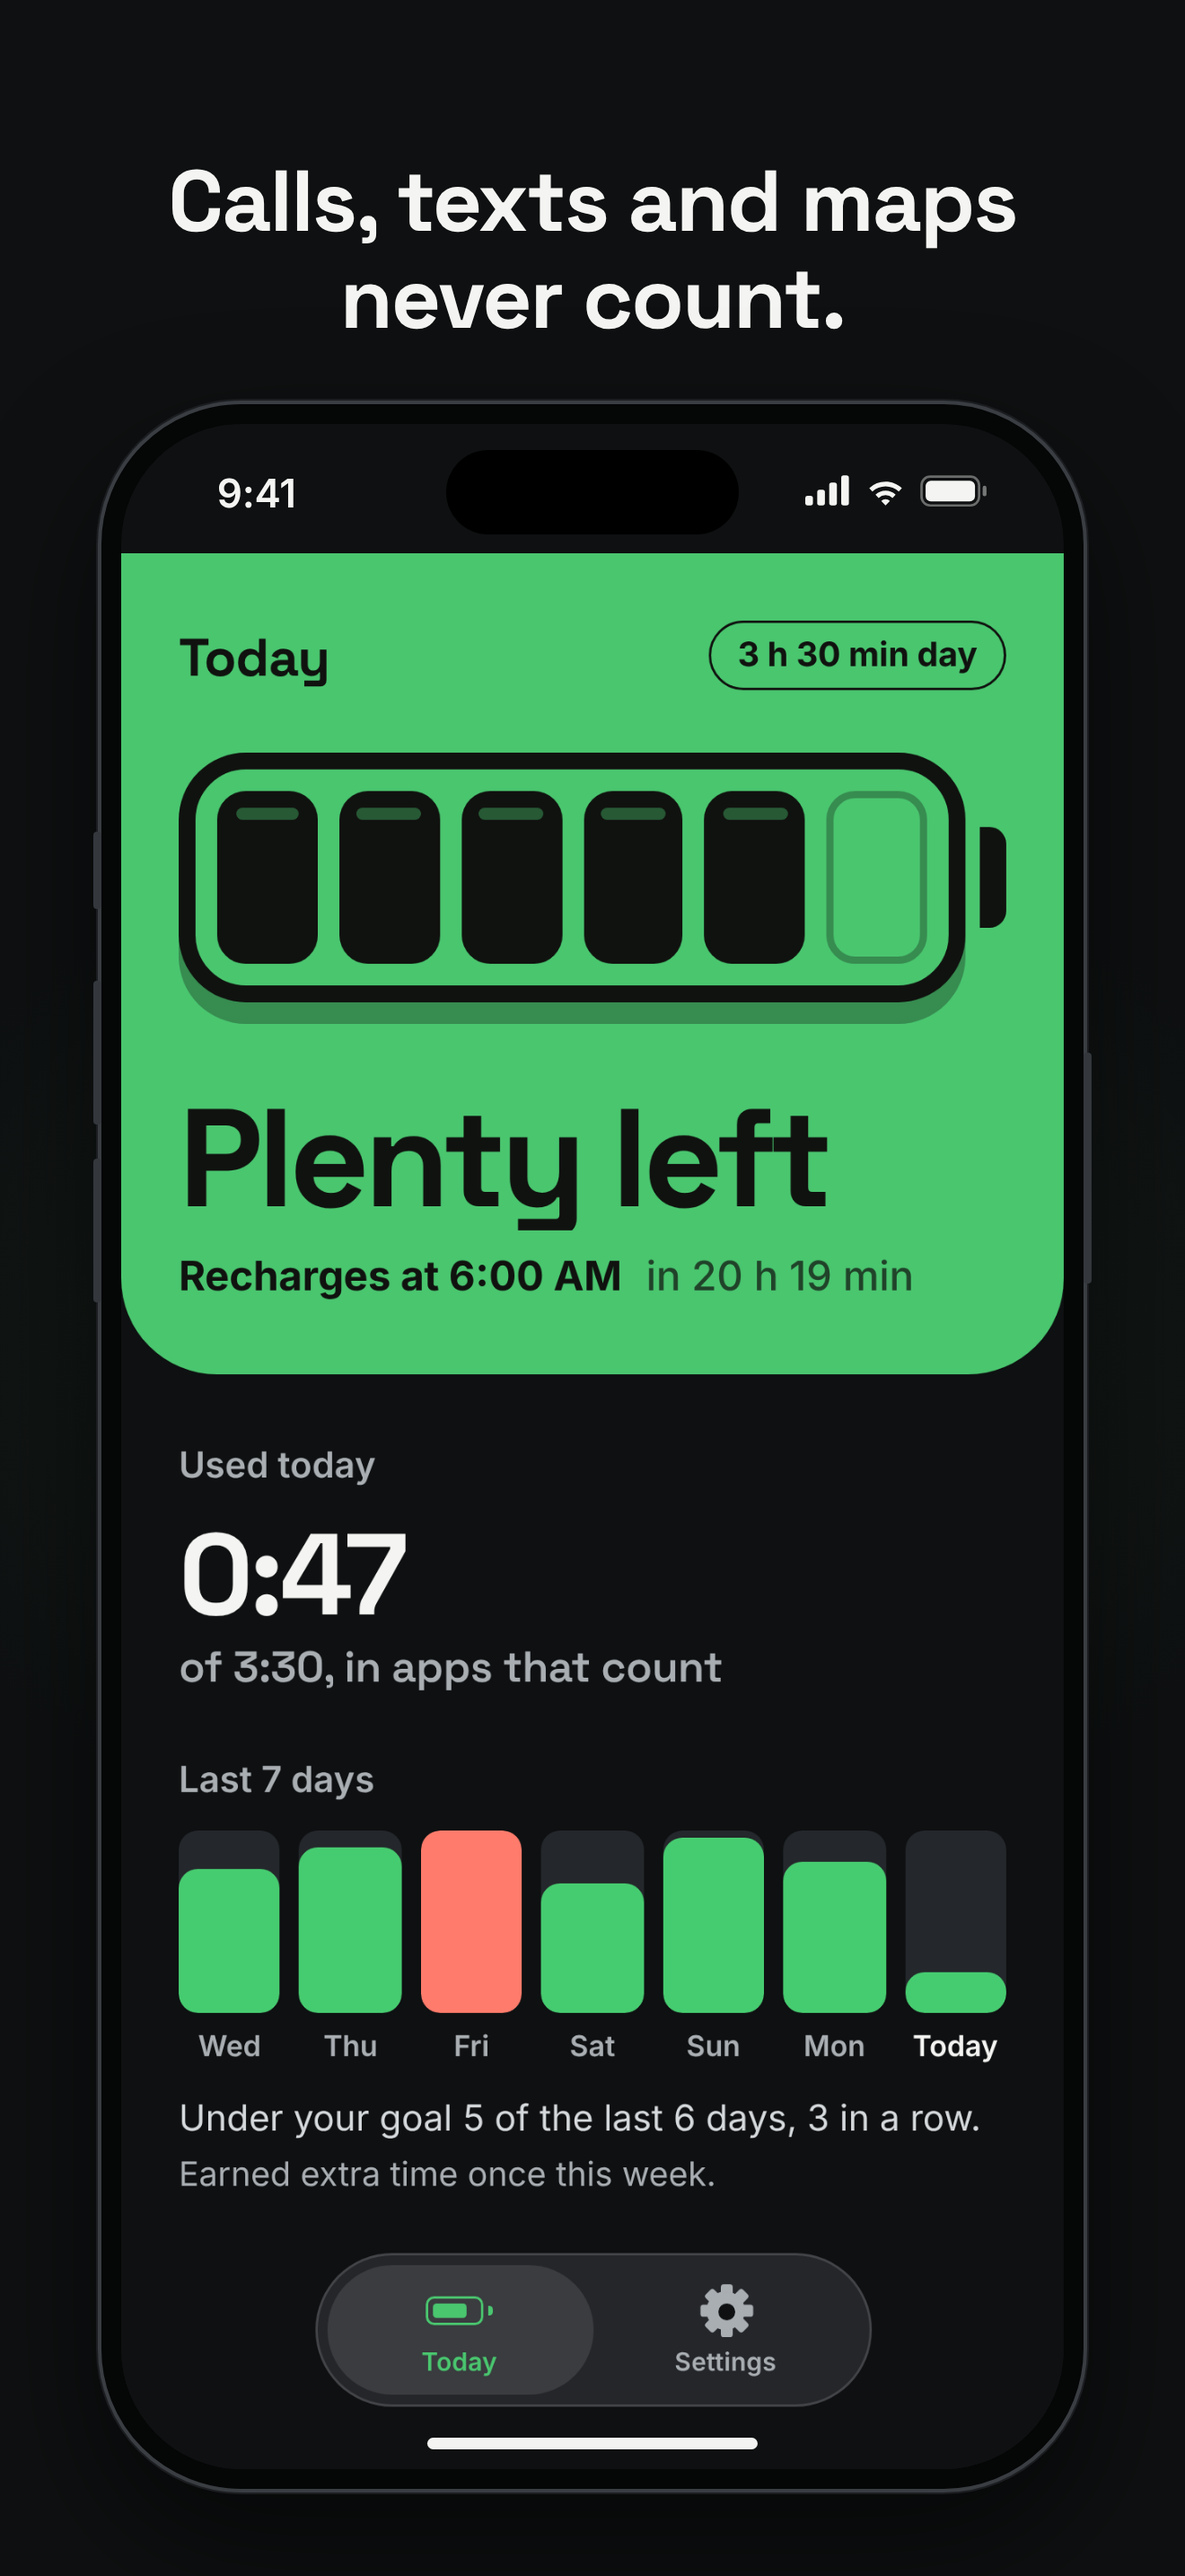
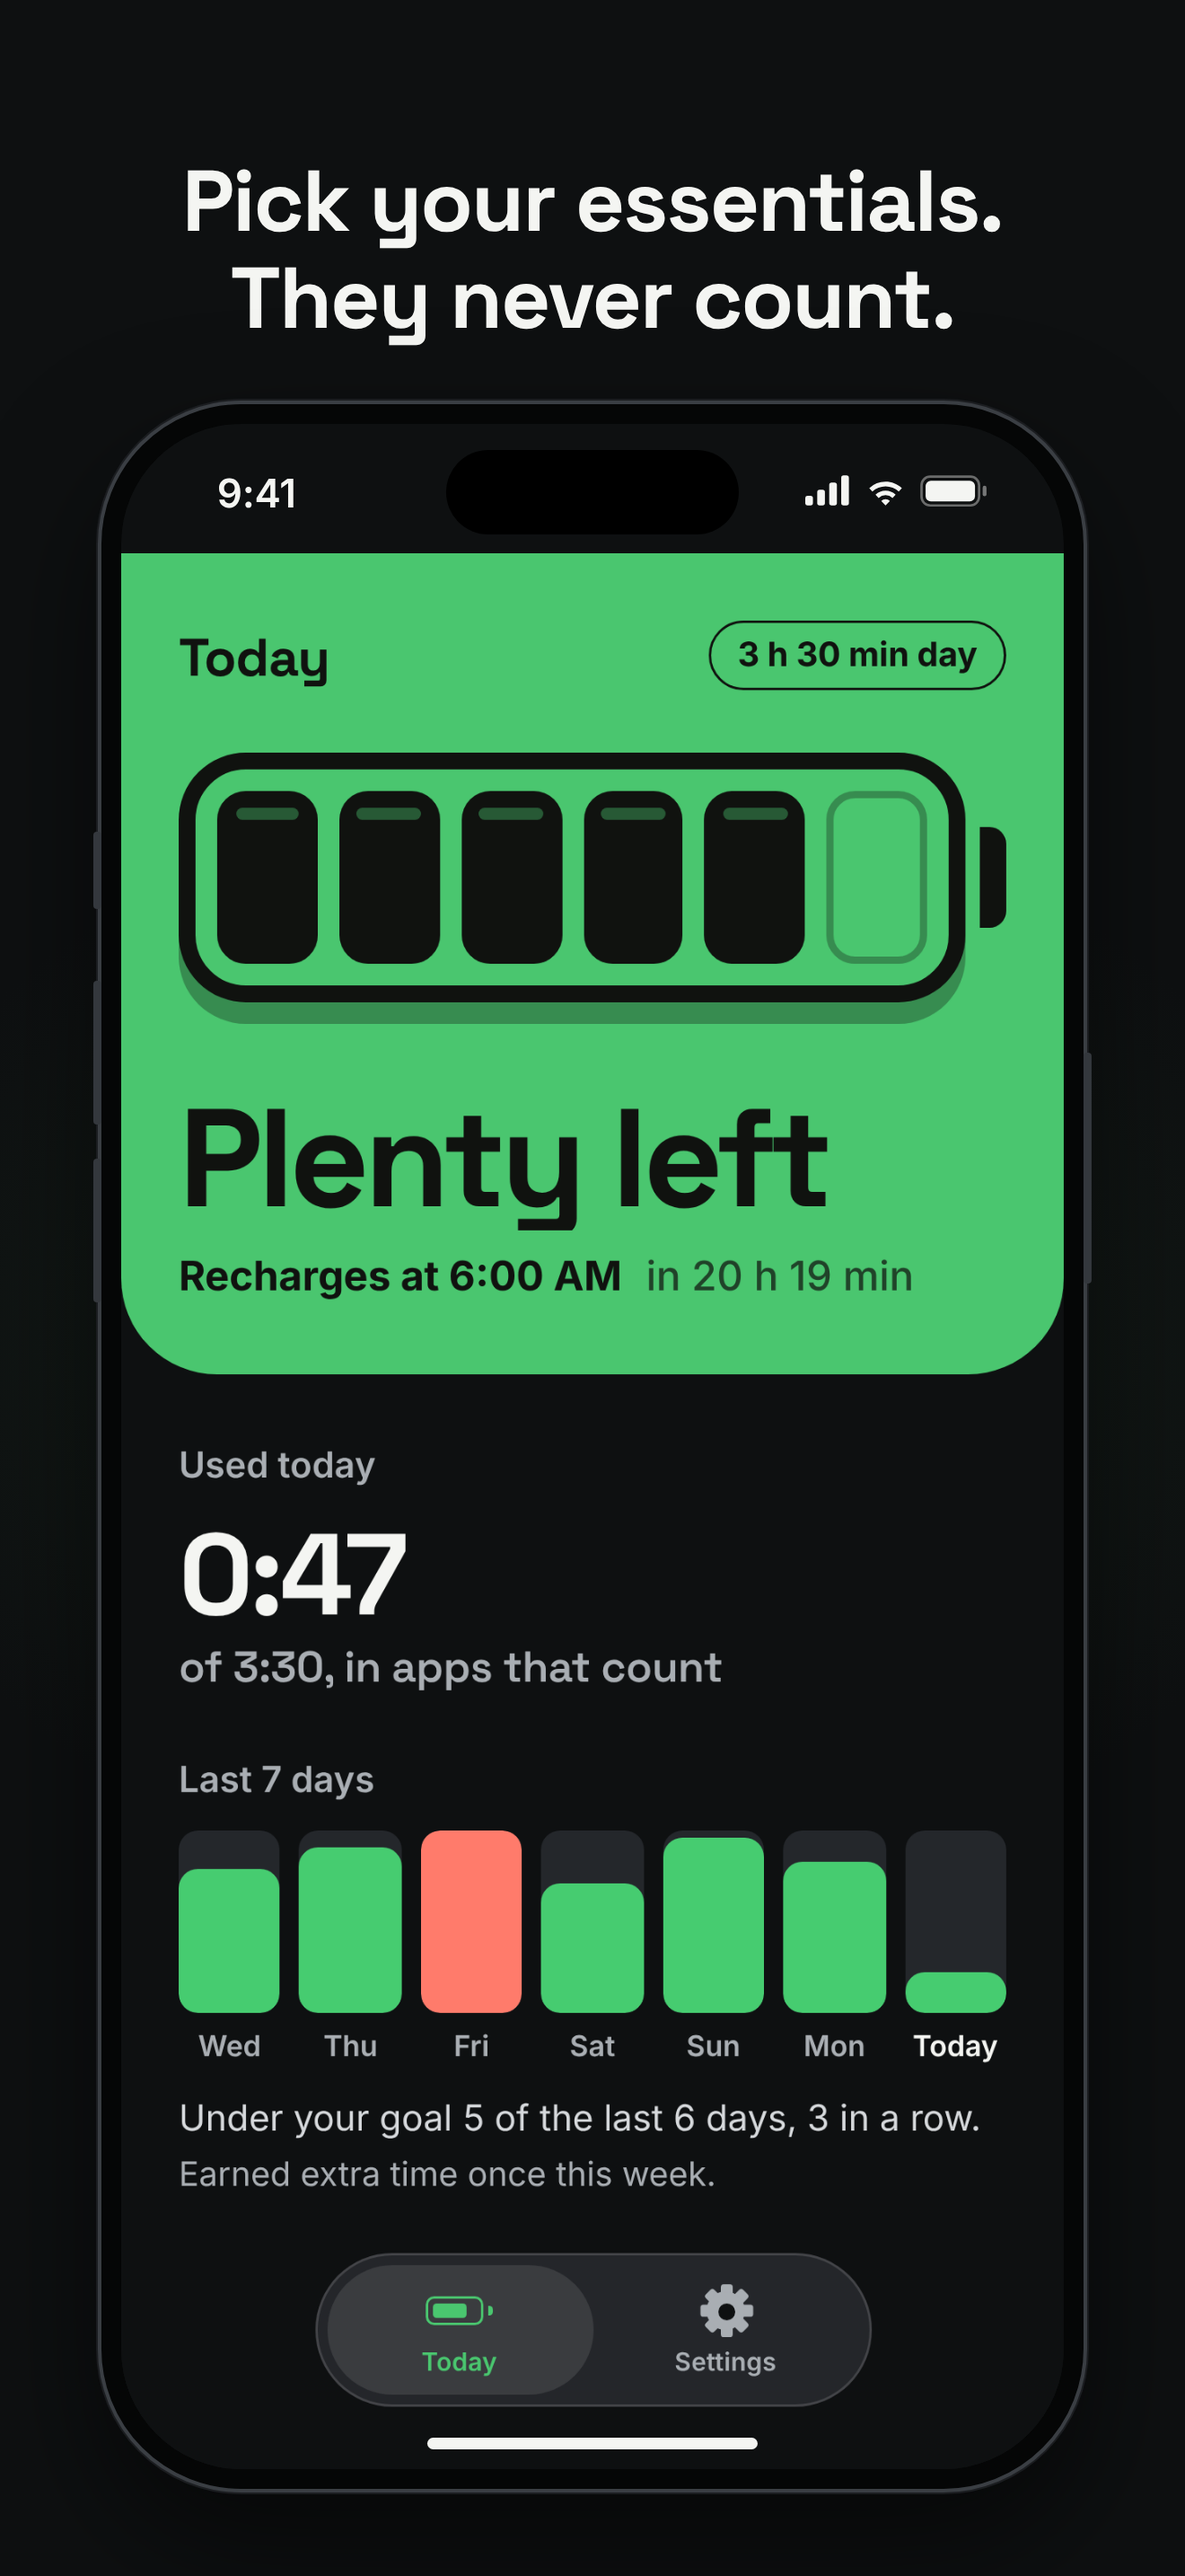
plainlimit 1.0.1: say that the person picks their essentials
"Calls, texts and maps never count" read as if only those three were
free. The first caption is now "Pick your essentials. They never count.",
and the promo text, description and Essentials screen say any app can be
an essential, with calls, texts and maps as examples.

Claude-Session: https://claude.ai/code/session_01P4SSbMQUsnKyhcfhzrtFQp

Changed region(s): [[0.1242, 0.0621, 0.8697, 0.1552]]

diff --git a/apps/plainlimit/src/ui/countWords.ts b/apps/plainlimit/src/ui/countWords.ts
@@ -5,7 +5,7 @@
 // (The screen was called "What counts" until 1.0.1; the picks are the same.)
 
 export const COUNTS_LEAD =
-  'Your essentials never count. Calls, messages, maps: use your phone as a tool without spending battery. Everything else you tick uses it up, and locks when it’s empty.';
+  'Your essentials never count, and you choose them: calls, messages, maps, or any app you use as a tool. Everything you tick uses up the battery, and locks when it’s empty.';
 
 /** The steps, the first naming the button as it reads ("Choose apps", "Change the apps", "Pick again"). */
 export const countsSteps = (button: string) => [`Tap ${button}.`, ...COUNTS_STEPS.slice(1)];

diff --git a/apps/plainlimit/NOTES.md b/apps/plainlimit/NOTES.md
@@ -356,7 +356,7 @@ From the store screenshots' second review (verdict "almost") and the owner's pho
 The owner set what the app is about. Core: **your essentials are free** (using the phone as a tool, calls, messages, maps, never costs battery or locks), and **friction, not walls** (an empty battery is got through with sums: 3 for 15 minutes, then 5 for 10, then 7 for 5). Features: the recharge at 6 AM (or a chosen time) instead of midnight, so there is no fresh battery for a late-night scroll; settings locked while the battery is empty (emergency access still to be decided with the owner); and, optional, the one-sum list for reflex apps, named **Second thought** by the owner (built as "Ask first" on its branch).
 
 - The owner named the free apps **Essentials**. In the app, "What counts" is now **Essentials** (Settings row, its screen, setup's step, the counting problems): the same single list in Apple's picker (tick everything, then untick your essentials), only the words changed. The Settings row reads "Set" or "Not set" instead of a count of ticked items, since the count was of what counts, not of the essentials.
-- 1.0.1's listing: subtitle "Your essentials never count" (was "A daily battery for your apps"); promotional text and description lead with essentials and the sums; captions "Calls, texts and maps never count." / "When it runs out, the scroll locks." / "Need a little more? Earn it with sums." / "Recharges at 6 AM, not midnight." 1.0.0's listing, in review, is unchanged; `tools/asc_listing.py` is not run against it.
+- 1.0.1's listing: subtitle "Your essentials never count" (was "A daily battery for your apps"); promotional text and description lead with essentials and the sums; captions "Pick your essentials. They never count." / "When it runs out, the scroll locks." / "Need a little more? Earn it with sums." / "Recharges at 6 AM, not midnight." 1.0.0's listing, in review, is unchanged; `tools/asc_listing.py` is not run against it. The owner pointed out that "Calls, texts and maps never count" read as if only those three were free, so every place now says the person picks their essentials, with calls, texts and maps as examples.
 
 ## Ideas for later versions (not built)
 
